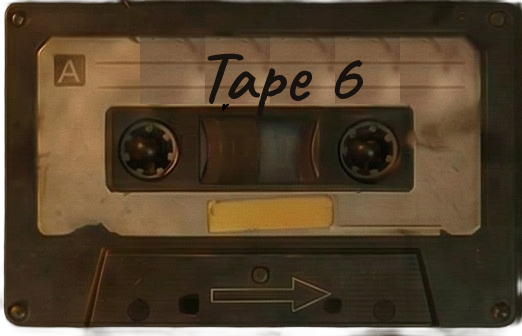
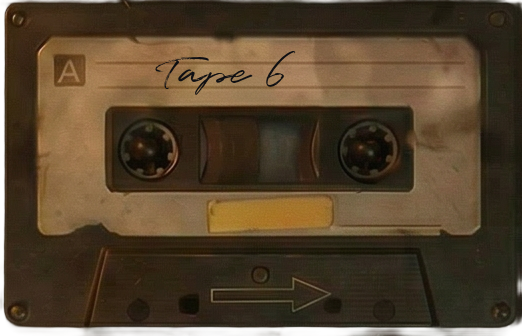
Regenerate tape 6 assets in Quentin to match tapes 1-5
The tape6 placeholder used the Caveat font, which didn't match the
script on the other five tapes. Identified the tape 1-5 label font as
Quentin (already in assets/fonts), measured the text size/position on
tape1, and regenerated tape6.png (composited on the clean cassette.png
base) and tape6 label.png to match.

Changed region(s): [[0.2452, 0.0893, 0.705, 0.3274], [0.7356, 0.2083, 0.7663, 0.2976]]

diff --git a/CLAUDE.md b/CLAUDE.md
@@ -69,7 +69,9 @@ All zones are positioned as percentage-based overlays on the room background ima
   T-03 The Call — M.'s voice first heard (W2), T-04 Vectors (W3), T-05 The Site (W4),
   T-06 The Interview (W5, safe-locked)
 - Assets `tape1.png`–`tape6.png` with label overlays `tapeN label.png`
-- NOTE: tape6.png / `tape6 label.png` are generated placeholders (Caveat font) — replace with artist versions
+- Tape text is composited onto the clean `cassette.png` base in the Quentin font
+  (~140px wide at font size 45; on-cassette text at (155,50), label text at (49,22)
+  in a 248×96 canvas) — tape6 was regenerated this way to match tapes 1–5
 - Tape stack on left, player on right with play/stop/rewind buttons
 
 ### Map (Right Monitor)
